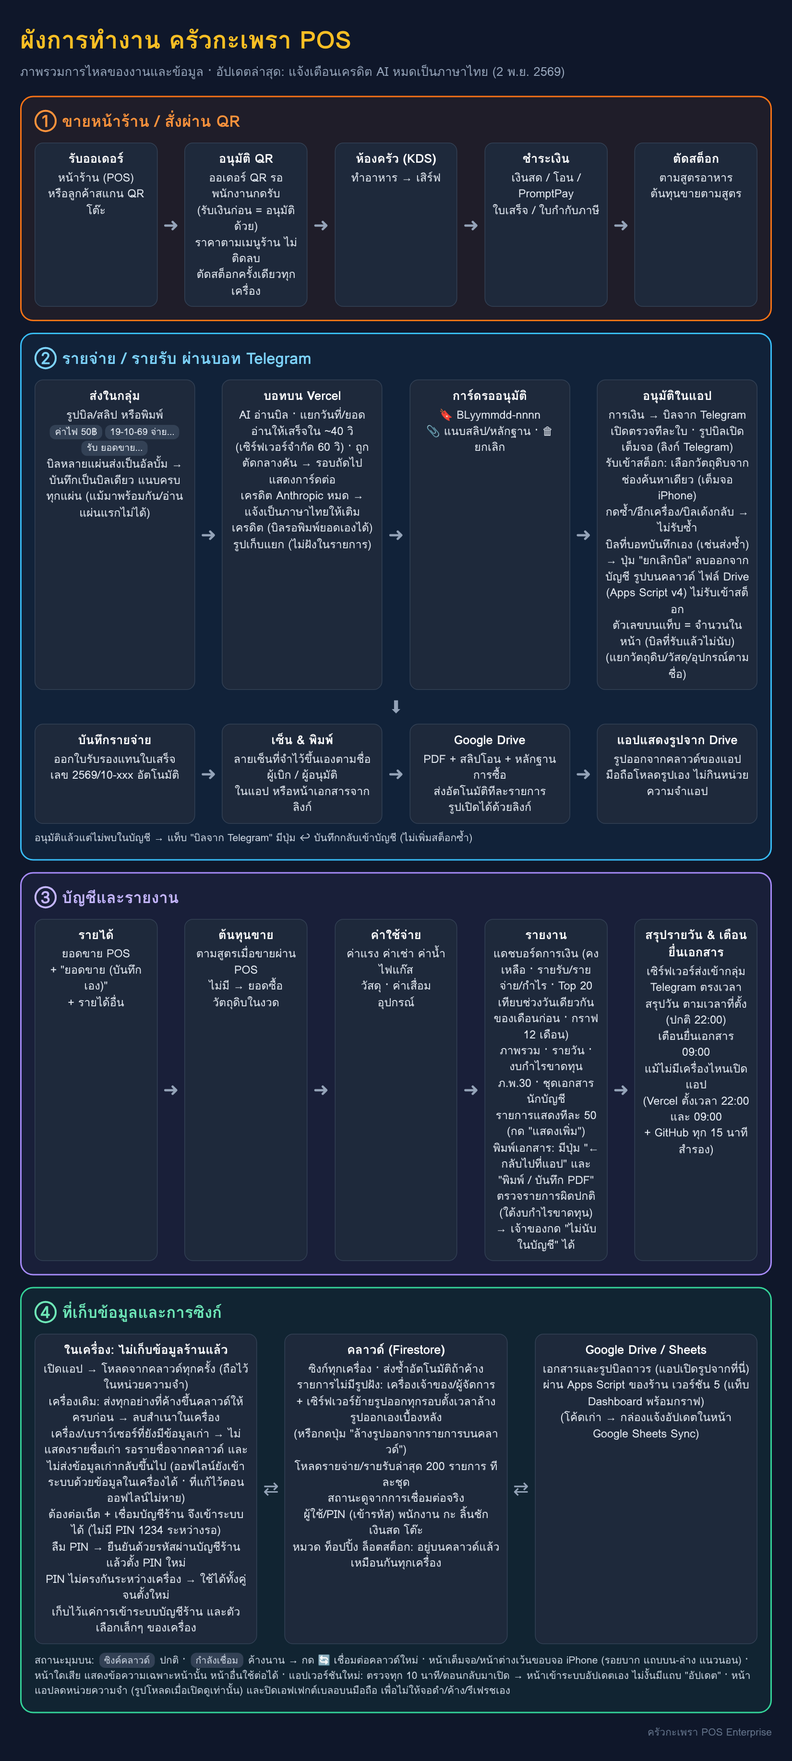
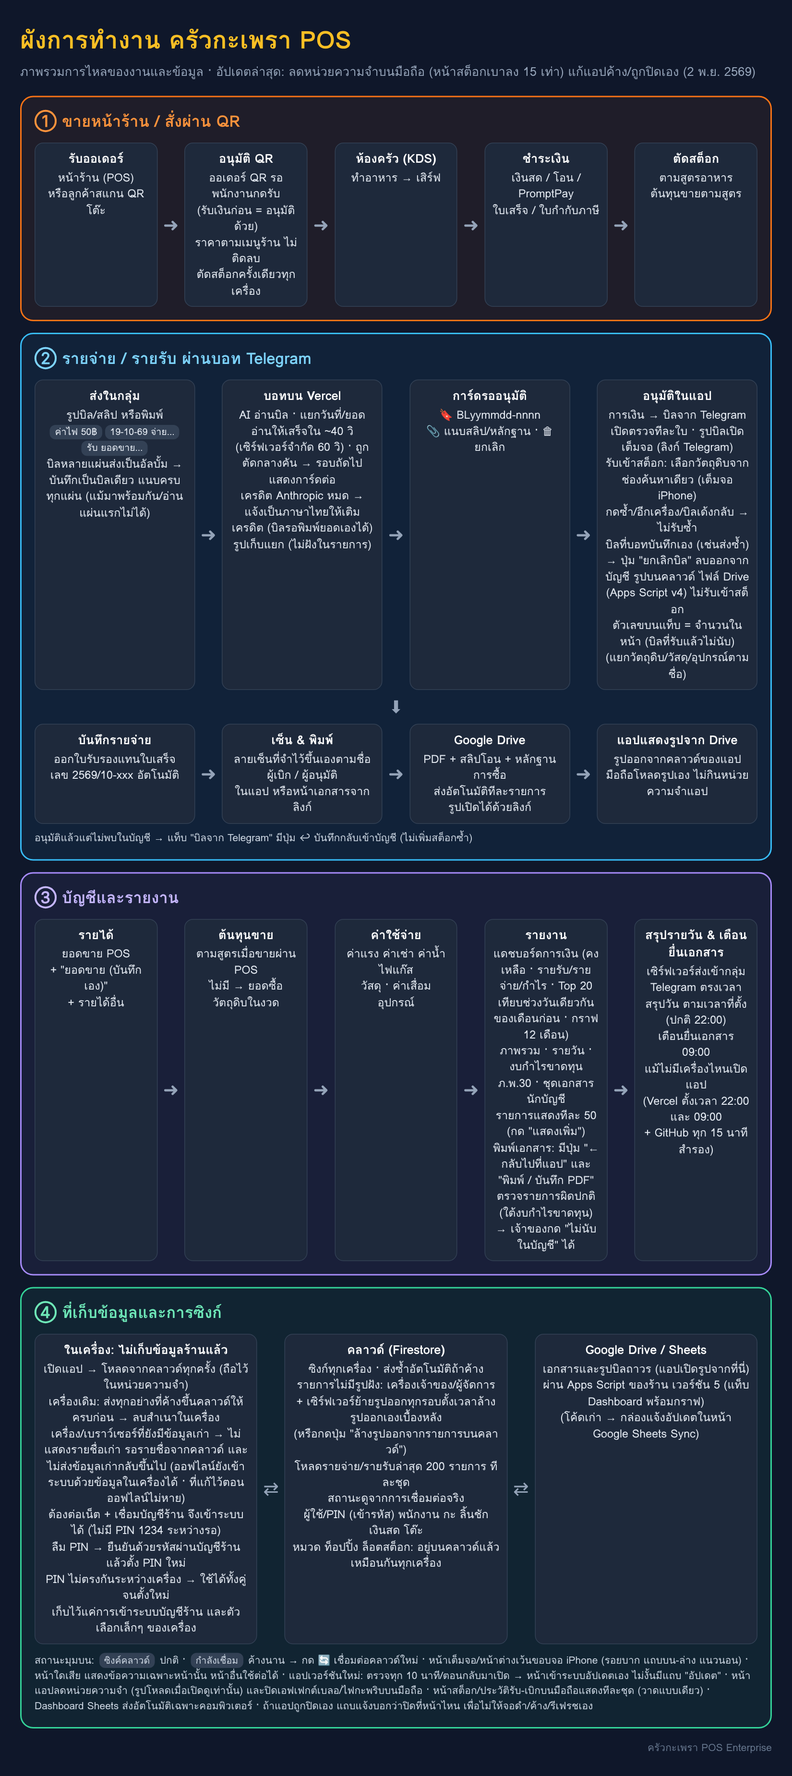
Phones: lighter pages so iPhone stops closing the app
The phone closed the app ("a moment ago, memory full") and left part of the
page black.

- Stock page: phones drew both the cards and the hidden table (about 20,000
  elements with 200 ingredients); now one layout, cards 40 at a time
  (~1,300 elements). The stock card history likewise.
- Stock movements: 60 at a time with "แสดงเพิ่ม".
- Phones: endless pulse/ping/bounce animations stand still (each repainted
  its layer every frame).
- The automatic Google Sheets send includes the Dashboard sheet (a year of
  history and the ledger) on computers only; phones send it by hand.
- The run notes its page: after the phone closes the app, the notice says
  which page it was on.

Claude-Session: https://claude.ai/code/session_01Gq3UvYW4wv3hsVCXoh5wxy

diff --git a/docs/workflow/flow.html b/docs/workflow/flow.html
@@ -17,7 +17,7 @@ h1{margin:0 0 4px;font-size:34px;color:#fbbf24}.sub{color:#94a3b8;font-size:17px
 .foot{color:#64748b;font-size:14px;margin-top:6px;text-align:right}
 </style></head><body>
 <h1>ผังการทำงาน ครัวกะเพรา POS</h1>
-<div class="sub">ภาพรวมการไหลของงานและข้อมูล · อัปเดตล่าสุด: แจ้งเตือนเครดิต AI หมดเป็นภาษาไทย (2 พ.ย. 2569)</div>
+<div class="sub">ภาพรวมการไหลของงานและข้อมูล · อัปเดตล่าสุด: ลดหน่วยความจำบนมือถือ (หน้าสต็อกเบาลง 15 เท่า) แก้แอปค้าง/ถูกปิดเอง (2 พ.ย. 2569)</div>
 
 <div class="lane pos"><h2>① ขายหน้าร้าน / สั่งผ่าน QR</h2>
 <div class="row">
@@ -60,7 +60,7 @@ h1{margin:0 0 4px;font-size:34px;color:#fbbf24}.sub{color:#94a3b8;font-size:17px
 <div class="box"><b>คลาวด์ (Firestore)</b>ซิงก์ทุกเครื่อง · ส่งซ้ำอัตโนมัติถ้าค้าง<br>รายการไม่มีรูปฝัง: เครื่องเจ้าของ/ผู้จัดการ<br>+ เซิร์ฟเวอร์ย้ายรูปออกทุกรอบตั้งเวลาล้างรูปออกเองเบื้องหลัง<br>(หรือกดปุ่ม "ล้างรูปออกจากรายการบนคลาวด์")<br>โหลดรายจ่าย/รายรับล่าสุด 200 รายการ ทีละชุด<br>สถานะดูจากการเชื่อมต่อจริง<br>ผู้ใช้/PIN (เข้ารหัส) พนักงาน กะ ลิ้นชักเงินสด โต๊ะ<br>หมวด ท็อปปิ้ง ล็อตสต็อก: อยู่บนคลาวด์แล้ว เหมือนกันทุกเครื่อง</div><div class="ar">⇄</div>
 <div class="box"><b>Google Drive / Sheets</b>เอกสารและรูปบิลถาวร (แอปเปิดรูปจากที่นี่)<br>ผ่าน Apps Script ของร้าน เวอร์ชัน 5 (แท็บ Dashboard พร้อมกราฟ)<br>(โค้ดเก่า → กล่องแจ้งอัปเดตในหน้า Google Sheets Sync)</div>
 </div>
-<div class="note">สถานะมุมบน: <span class="tag">ซิงค์คลาวด์</span> ปกติ · <span class="tag">กำลังเชื่อม</span> ค้างนาน → กด 🔄 เชื่อมต่อคลาวด์ใหม่ · หน้าเต็มจอ/หน้าต่างเว้นขอบจอ iPhone (รอยบาก แถบบน-ล่าง แนวนอน) · หน้าใดเสีย แสดงข้อความเฉพาะหน้านั้น หน้าอื่นใช้ต่อได้ · แอปเวอร์ชันใหม่: ตรวจทุก 10 นาที/ตอนกลับมาเปิด → หน้าเข้าระบบอัปเดตเอง ไม่งั้นมีแถบ "อัปเดต" · หน้าแอปลดหน่วยความจำ (รูปโหลดเมื่อเปิดดูเท่านั้น) และปิดเอฟเฟกต์เบลอบนมือถือ เพื่อไม่ให้จอดำ/ค้าง/รีเฟรชเอง</div>
+<div class="note">สถานะมุมบน: <span class="tag">ซิงค์คลาวด์</span> ปกติ · <span class="tag">กำลังเชื่อม</span> ค้างนาน → กด 🔄 เชื่อมต่อคลาวด์ใหม่ · หน้าเต็มจอ/หน้าต่างเว้นขอบจอ iPhone (รอยบาก แถบบน-ล่าง แนวนอน) · หน้าใดเสีย แสดงข้อความเฉพาะหน้านั้น หน้าอื่นใช้ต่อได้ · แอปเวอร์ชันใหม่: ตรวจทุก 10 นาที/ตอนกลับมาเปิด → หน้าเข้าระบบอัปเดตเอง ไม่งั้นมีแถบ "อัปเดต" · หน้าแอปลดหน่วยความจำ (รูปโหลดเมื่อเปิดดูเท่านั้น) และปิดเอฟเฟกต์เบลอ/ไฟกะพริบบนมือถือ · หน้าสต็อก/ประวัติรับ-เบิกบนมือถือแสดงทีละชุด (วาดแบบเดียว) · Dashboard Sheets ส่งอัตโนมัติเฉพาะคอมพิวเตอร์ · ถ้าแอปถูกปิดเอง แถบแจ้งบอกว่าปิดที่หน้าไหน เพื่อไม่ให้จอดำ/ค้าง/รีเฟรชเอง</div>
 </div>
 <div class="foot">ครัวกะเพรา POS Enterprise</div>
 </body></html>

diff --git a/src/components/inventory/InventoryView.tsx b/src/components/inventory/InventoryView.tsx
@@ -1,4 +1,5 @@
 import React, { useEffect, useMemo, useState } from 'react';
+import { useNarrowScreen } from '../../hooks/useNarrowScreen';
 import { onPageSectionRequest, takePageSection } from '../../utils/pageNav';
 import { STOCK_TYPES, misfiledStock, stockTypeLabel, stockTypeOf, stockValueByType, isLowStock } from '../../utils/stockTypes';
 import { StockIssuePanel } from './StockIssuePanel';
@@ -57,7 +58,16 @@ import { AdjustmentLogModal } from './AdjustmentLogModal';
 import { InventoryReportModal } from './InventoryReportModal';
 import { GoogleSheetsModal } from '../common/GoogleSheetsModal';
 
+/** Phones show the ingredients a page at a time (each card is a large part of the page) */
+const CARD_STEP = 40;
+/** Stock movements shown at a time (the newest first) */
+const LOG_STEP = 60;
+
 export const InventoryView: React.FC = () => {
+  // One of the two layouts is drawn (cards on a phone, the table elsewhere), never both
+  const narrow = useNarrowScreen();
+  const [cardLimit, setCardLimit] = useState(CARD_STEP);
+  const [logLimit, setLogLimit] = useState(LOG_STEP);
   const {
     ingredients,
     stockLots,
@@ -1142,8 +1152,9 @@ export const InventoryView: React.FC = () => {
             )}
 
             {/* Phones: one card per ingredient (the table needs a wide screen) */}
+            {narrow && (
             <div className="md:hidden space-y-2">
-              {filteredIngredients.map(ing => {
+              {filteredIngredients.slice(0, cardLimit).map(ing => {
                 const isLow = isLowStock(ing);
                 const { lot, state } = expiryOf(ing.id);
                 const isSelected = selectedIngIds.includes(ing.id);
@@ -1194,8 +1205,15 @@ export const InventoryView: React.FC = () => {
                 );
               })}
             </div>
+            )}
+            {narrow && filteredIngredients.length > cardLimit && (
+              <button type="button" onClick={() => setCardLimit(n => n + CARD_STEP)} className="w-full h-11 rounded-xl border border-slate-700 text-slate-300 text-sm font-bold">
+                แสดงเพิ่ม ({filteredIngredients.length - cardLimit} รายการ)
+              </button>
+            )}
 
             {/* Current Stock Table with Horizontal Scroll Safety */}
+            {!narrow && (
             <div className="hidden md:block bg-slate-900 border border-slate-800 rounded-2xl overflow-hidden shadow-xl">
               <div className="overflow-x-auto">
                 <table className="w-full text-left text-xs text-slate-300 min-w-[750px]">
@@ -1536,6 +1554,7 @@ export const InventoryView: React.FC = () => {
                 </table>
               </div>
             </div>
+            )}
             {/* Several items at once (by dish sold, or waste) */}
             <div className="bg-slate-900 border border-slate-800 rounded-2xl">
               <button type="button" onClick={() => setShowIssuePanel(o => !o)} className="w-full flex items-center justify-between px-4 py-3 text-sm font-bold text-slate-200">
@@ -1680,7 +1699,7 @@ export const InventoryView: React.FC = () => {
                     </tr>
                   </thead>
                   <tbody className="divide-y divide-slate-800/60">
-                    {filteredLogs.map(log => (
+                    {filteredLogs.slice(0, logLimit).map(log => (
                       <tr key={log.id} className="hover:bg-slate-800/40 transition">
                         <td className="py-3.5 px-4 font-mono text-slate-400 whitespace-nowrap">{log.date}</td>
                         <td className="py-3.5 px-4 font-bold text-slate-100 whitespace-nowrap">
@@ -1727,6 +1746,11 @@ export const InventoryView: React.FC = () => {
                 </table>
               </div>
             </div>
+            {filteredLogs.length > logLimit && (
+              <button type="button" onClick={() => setLogLimit(n => n + LOG_STEP)} className="w-full h-11 rounded-xl border border-slate-700 text-slate-300 text-sm font-bold">
+                แสดงเพิ่ม ({filteredLogs.length - logLimit} รายการ)
+              </button>
+            )}
           </div>
         )}
 
@@ -1767,6 +1791,7 @@ export const InventoryView: React.FC = () => {
             </div>
 
             {/* Phones: the card's entries as a list */}
+            {narrow && (
             <div className="md:hidden space-y-2">
               {stockCardRecords.length === 0 && <div className="p-6 text-center text-xs text-slate-500 bg-slate-900 border border-slate-800 rounded-2xl">ยังไม่มีการรับ-เบิกของวัตถุดิบนี้</div>}
               {stockCardRecords.map(sc => (
@@ -1790,8 +1815,10 @@ export const InventoryView: React.FC = () => {
                 </div>
               ))}
             </div>
+            )}
 
             {/* Stock Card Table with Horizontal Scroll Safety */}
+            {!narrow && (
             <div className="hidden md:block bg-slate-900 border border-slate-800 rounded-2xl overflow-hidden shadow-xl">
               <div className="overflow-x-auto">
                 <table className="w-full text-left text-xs text-slate-300 min-w-[800px]">
@@ -1852,6 +1879,7 @@ export const InventoryView: React.FC = () => {
                 </table>
               </div>
             </div>
+            )}
           </div>
         )}
       </div>

diff --git a/src/App.tsx b/src/App.tsx
@@ -39,7 +39,7 @@ import { ShopAccountBanner } from './components/ShopAccountBanner';
 import { UpdateWatcher } from './components/UpdateWatcher';
 import { PageErrorBoundary } from './components/PageErrorBoundary';
 import { AutoCloudPictureCleanup } from './components/settings/CloudPictureCleanup';
-import { startupCrashes } from './utils/bootGuard';
+import { crashPage, setRunPage, startupCrashes } from './utils/bootGuard';
 import { canOpenTab, firstAllowedTab } from './utils/access';
 import { PrepCostSync } from './components/inventory/PrepCostSync';
 import { MobileClockPage, readClockHash } from './components/attendance/MobileClockPage';
@@ -68,6 +68,10 @@ const MainLayout: React.FC = () => {
   } = usePOS();
   // The phone closed the app just before (out of memory): it opened on the sales screen, lighter
   const [crashNotice, setCrashNotice] = useState(() => startupCrashes() > 0);
+  // Each run notes its page: the next start says where the phone closed it (to find the heavy page)
+  useEffect(() => {
+    setRunPage(activeTab);
+  }, [activeTab]);
   const effectiveOffline = isOffline || forceOfflineMode;
 
   const [mobileClock, setMobileClock] = useState<{ code: string; at: number } | null>(() => {
@@ -167,7 +171,9 @@ const MainLayout: React.FC = () => {
 
       {!isLocked && crashNotice && (
         <div className="bg-sky-950 border-b border-sky-800 text-sky-100 px-4 py-2 text-xs flex items-center justify-between gap-3">
-          <span>แอปถูกปิดไปเองเมื่อครู่ (หน่วยความจำเครื่องเต็ม) จึงเปิดที่หน้าขายและโหลดข้อมูลคลาวด์ทีละส่วน ข้อมูลไม่หาย</span>
+          <span>
+            แอปถูกปิดไปเองเมื่อครู่{crashPage() ? ` ขณะอยู่หน้า ${PAGE_NAMES[crashPage()] || crashPage()}` : ''} (หน่วยความจำเครื่องเต็ม) จึงเปิดที่หน้าขายและโหลดข้อมูลคลาวด์ทีละส่วน ข้อมูลไม่หาย
+          </span>
           <button type="button" onClick={() => setCrashNotice(false)} className="shrink-0 h-8 px-3 rounded-lg bg-sky-800 font-bold">
             ตกลง
           </button>
@@ -230,6 +236,24 @@ const MainLayout: React.FC = () => {
       <PrepCostSync />
     </div>
   );
+};
+
+/** Page names for the notice after the phone closed the app */
+const PAGE_NAMES: Record<string, string> = {
+  dashboard: 'วิเคราะห์ผลประกอบการ',
+  pos: 'ขายหน้าร้าน',
+  qr: 'สั่งอาหาร QR',
+  kds: 'ห้องครัว',
+  inventory: 'คลังวัตถุดิบ',
+  recipes: 'เมนูและสูตร',
+  po: 'จัดซื้อ',
+  accounting: 'การเงินและสมุดบัญชี',
+  quotation: 'ใบเสนอราคา',
+  tax_receipt: 'ใบเสร็จ',
+  order_history: 'ประวัติออเดอร์',
+  crm: 'สมาชิก CRM',
+  line_notify: 'แจ้งเตือน',
+  settings: 'ตั้งค่า'
 };
 
 export default function App() {

diff --git a/src/utils/bootGuard.ts b/src/utils/bootGuard.ts
@@ -14,12 +14,12 @@ const HEARTBEAT_MS = 20_000;
 // A run last seen on screen longer ago than this ended some other way (e.g. the phone slept)
 const CRASH_WINDOW_MS = 3 * 60_000;
 
-type RunState = { visible: boolean; at: number; crashes: number };
+type RunState = { visible: boolean; at: number; crashes: number; page?: string };
 
 export function readRunState(raw: string | null): RunState | null {
   try {
     const s = JSON.parse(raw || 'null');
-    return s && typeof s.at === 'number' ? { visible: !!s.visible, at: s.at, crashes: Number(s.crashes) || 0 } : null;
+    return s && typeof s.at === 'number' ? { visible: !!s.visible, at: s.at, crashes: Number(s.crashes) || 0, ...(typeof s.page === 'string' && s.page ? { page: s.page } : {}) } : null;
   } catch {
     return null;
   }
@@ -32,6 +32,17 @@ export function crashesBefore(prev: RunState | null, now: number): number {
 }
 
 let crashes = 0;
+/** The page the run closed by the phone was on ('' when unknown) */
+let crashedOn = '';
+/** The page this run is on (kept with each note, so a crash says where it happened) */
+let page = '';
+let markNow: (() => void) | null = null;
+export const crashPage = () => crashedOn;
+/** The page now shown (called when it changes) */
+export function setRunPage(name: string): void {
+  page = name;
+  markNow?.();
+}
 /** Runs in a row closed by the phone just before this one */
 export const startupCrashes = () => crashes;
 /** Open on the sales screen and load the cloud lists in smaller pieces (the last run was closed) */
@@ -47,7 +58,9 @@ function save(state: RunState) {
 
 export async function bootGuard(): Promise<void> {
   try {
-    crashes = crashesBefore(readRunState(localStorage.getItem(KEY)), Date.now());
+    const prev = readRunState(localStorage.getItem(KEY));
+    crashes = crashesBefore(prev, Date.now());
+    crashedOn = crashes ? prev?.page || '' : '';
   } catch {
     crashes = 0;
   }
@@ -60,7 +73,8 @@ export async function bootGuard(): Promise<void> {
 
   // Counted as closed by the phone until it has been on screen for a minute
   let stored = crashes;
-  const mark = () => save({ visible: document.visibilityState !== 'hidden', at: Date.now(), crashes: stored });
+  const mark = () => save({ visible: document.visibilityState !== 'hidden', at: Date.now(), crashes: stored, ...(page ? { page } : {}) });
+  markNow = mark;
   mark();
   setTimeout(() => {
     stored = 0;
@@ -71,5 +85,5 @@ export async function bootGuard(): Promise<void> {
   }, HEARTBEAT_MS);
   // Going to the background or closing the tab is a normal end
   document.addEventListener('visibilitychange', mark);
-  window.addEventListener('pagehide', () => save({ visible: false, at: Date.now(), crashes: stored }));
+  window.addEventListener('pagehide', () => save({ visible: false, at: Date.now(), crashes: stored, ...(page ? { page } : {}) }));
 }

diff --git a/src/hooks/useSheetsScript.ts b/src/hooks/useSheetsScript.ts
@@ -16,7 +16,8 @@ export function useSheetsScriptPush() {
     latest.current = { orders, ingredients, menuItems, stockAdjustmentLogs, wasteLogs, currentBranch, settings, buildLines, today };
   });
 
-  return useCallback(async () => {
+  /** dashboard: false leaves the Dashboard sheet out (it reads a year of history: not on a phone's automatic send) */
+  return useCallback(async (opts: { dashboard?: boolean } = {}) => {
     const d = latest.current;
     const cfg = d.settings.sheetsScript;
     if (!cfg?.url || !cfg.secret) throw new Error('ยังไม่ได้ตั้งค่า Apps Script');
@@ -32,17 +33,19 @@ export function useSheetsScriptPush() {
     // The dashboard from the same history as the app's page (loaded first), so every device sends
     // the same figures; when the history cannot be loaded it is left out rather than sent short
     let dashboard: ReturnType<typeof financeDashboard> | undefined;
-    try {
-      const month = d.today.slice(0, 7);
-      const since = dashboardSince(d.settings.booksStartAt ? thaiDay(d.settings.booksStartAt) : undefined, month);
-      if (await loadHistory(since)) {
-        // The loaded records reach the ledger on the next render
-        await new Promise(r => setTimeout(r, 800));
-        const now = latest.current;
-        dashboard = financeDashboard(now.buildLines(), month, now.today, { since });
+    if (opts.dashboard !== false) {
+      try {
+        const month = d.today.slice(0, 7);
+        const since = dashboardSince(d.settings.booksStartAt ? thaiDay(d.settings.booksStartAt) : undefined, month);
+        if (await loadHistory(since)) {
+          // The loaded records reach the ledger on the next render
+          await new Promise(r => setTimeout(r, 800));
+          const now = latest.current;
+          dashboard = financeDashboard(now.buildLines(), month, now.today, { since });
+        }
+      } catch {
+        // the other sheets still go
       }
-    } catch {
-      // the other sheets still go
     }
     try {
       const r = await pushSheetsToScript(cfg.url, cfg.secret, sheets, dashboard);

diff --git a/src/components/accounting/AccountingView.tsx b/src/components/accounting/AccountingView.tsx
@@ -109,6 +109,7 @@ import { claimTaken } from '../../services/firebaseService';
 import { useTelegramInbox } from '../../hooks/useTelegramInbox';
 import { usePayables, useReceivables } from '../../hooks/useArAp';
 import { useFrequentIngredients } from '../../utils/useFrequentIngredients';
+import { useNarrowScreen } from '../../hooks/useNarrowScreen';
 
 type TimeHorizon = 'selected' | '6months' | 'year';
 type ViewTab = 'books' | 'vat' | 'ar_ap' | 'expenses' | 'incomes' | 'details' | 'telegram';
@@ -336,19 +337,6 @@ const isSameMonth = (dateOrIso: string | undefined, targetMonthStr: string): boo
 };
 
 const LIST_STEP = 50;
-/** True on a phone-width screen (the lists show cards there, a table elsewhere) */
-function useNarrowScreen(): boolean {
-  const query = '(max-width: 767px)';
-  const [narrow, setNarrow] = useState(() => typeof window !== 'undefined' && !!window.matchMedia?.(query).matches);
-  useEffect(() => {
-    const mq = window.matchMedia?.(query);
-    if (!mq) return;
-    const on = () => setNarrow(mq.matches);
-    mq.addEventListener?.('change', on);
-    return () => mq.removeEventListener?.('change', on);
-  }, []);
-  return narrow;
-}
 
 export const AccountingView: React.FC = () => {
   const { orders, expenses, incomes = [], settings, updateSettings, addExpense, deleteExpense, addIncome, updateIncome, deleteIncome, currentBranch, ingredients, addStockLot, updateIngredient, menuItems = [], stockLots = [], currentUser, users, permissions, loadHistory } = usePOS();

diff --git a/src/components/sheets/SheetsScriptAutoSync.tsx b/src/components/sheets/SheetsScriptAutoSync.tsx
@@ -4,6 +4,7 @@ import { useSheetsScriptPush } from '../../hooks/useSheetsScript';
 import { readAutoMinutes, readLastPush } from '../../services/sheetsScript';
 
 const CHECK_MS = 60 * 1000;
+const PHONE = typeof window !== 'undefined' && !!window.matchMedia?.('(hover: none), (max-width: 1024px)').matches;
 // After a failed send, wait before trying again (the next check would otherwise retry every minute)
 const RETRY_MS = 10 * 60 * 1000;
 
@@ -31,7 +32,8 @@ export const SheetsScriptAutoSync: React.FC = () => {
       if (since < (last && !last.ok ? Math.min(RETRY_MS, minutes * 60000) : minutes * 60000)) return;
       running = true;
       try {
-        await push();
+        // The Dashboard sheet loads a year of history: computers only (a phone sends it by hand)
+        await push({ dashboard: !PHONE });
       } catch (e) {
         console.warn('[Sheets Apps Script] automatic send failed:', e);
       } finally {

diff --git a/src/hooks/useNarrowScreen.ts b/src/hooks/useNarrowScreen.ts
@@ -1,0 +1,18 @@
+import { useEffect, useState } from 'react';
+
+/**
+ * True on a phone-width screen. Pages that show cards on a phone and a table elsewhere draw only
+ * one of them: both drawn (one hidden by CSS) doubled the page, and iPhones ran out of memory.
+ */
+export function useNarrowScreen(): boolean {
+  const query = '(max-width: 767px)';
+  const [narrow, setNarrow] = useState(() => typeof window !== 'undefined' && !!window.matchMedia?.(query).matches);
+  useEffect(() => {
+    const mq = window.matchMedia?.(query);
+    if (!mq) return;
+    const on = () => setNarrow(mq.matches);
+    mq.addEventListener?.('change', on);
+    return () => mq.removeEventListener?.('change', on);
+  }, []);
+  return narrow;
+}

diff --git a/src/utils/__tests__/bootGuard.test.ts b/src/utils/__tests__/bootGuard.test.ts
@@ -16,6 +16,7 @@ describe('crashesBefore', () => {
   });
   it('reads what was saved, and ignores anything else', () => {
     expect(readRunState('{"visible":true,"at":5,"crashes":1}')).toEqual({ visible: true, at: 5, crashes: 1 });
+    expect(readRunState('{"visible":true,"at":5,"crashes":0,"page":"บิลจาก Telegram"}')).toEqual({ visible: true, at: 5, crashes: 0, page: 'บิลจาก Telegram' });
     expect(readRunState('nope')).toBeNull();
     expect(readRunState(null)).toBeNull();
   });

diff --git a/src/index.css b/src/index.css
@@ -69,6 +69,12 @@ body {
   .blur-xl {
     display: none !important;
   }
+  /* Endless pulsing and pinging dots repaint their layer every frame (graphics memory): still */
+  .animate-pulse,
+  .animate-ping,
+  .animate-bounce {
+    animation: none !important;
+  }
   /* Dialog overlays: a little darker, since the page behind is no longer blurred */
   .fixed.inset-0[class*='backdrop-blur'] {
     background-color: rgb(2 6 23 / 0.92);
